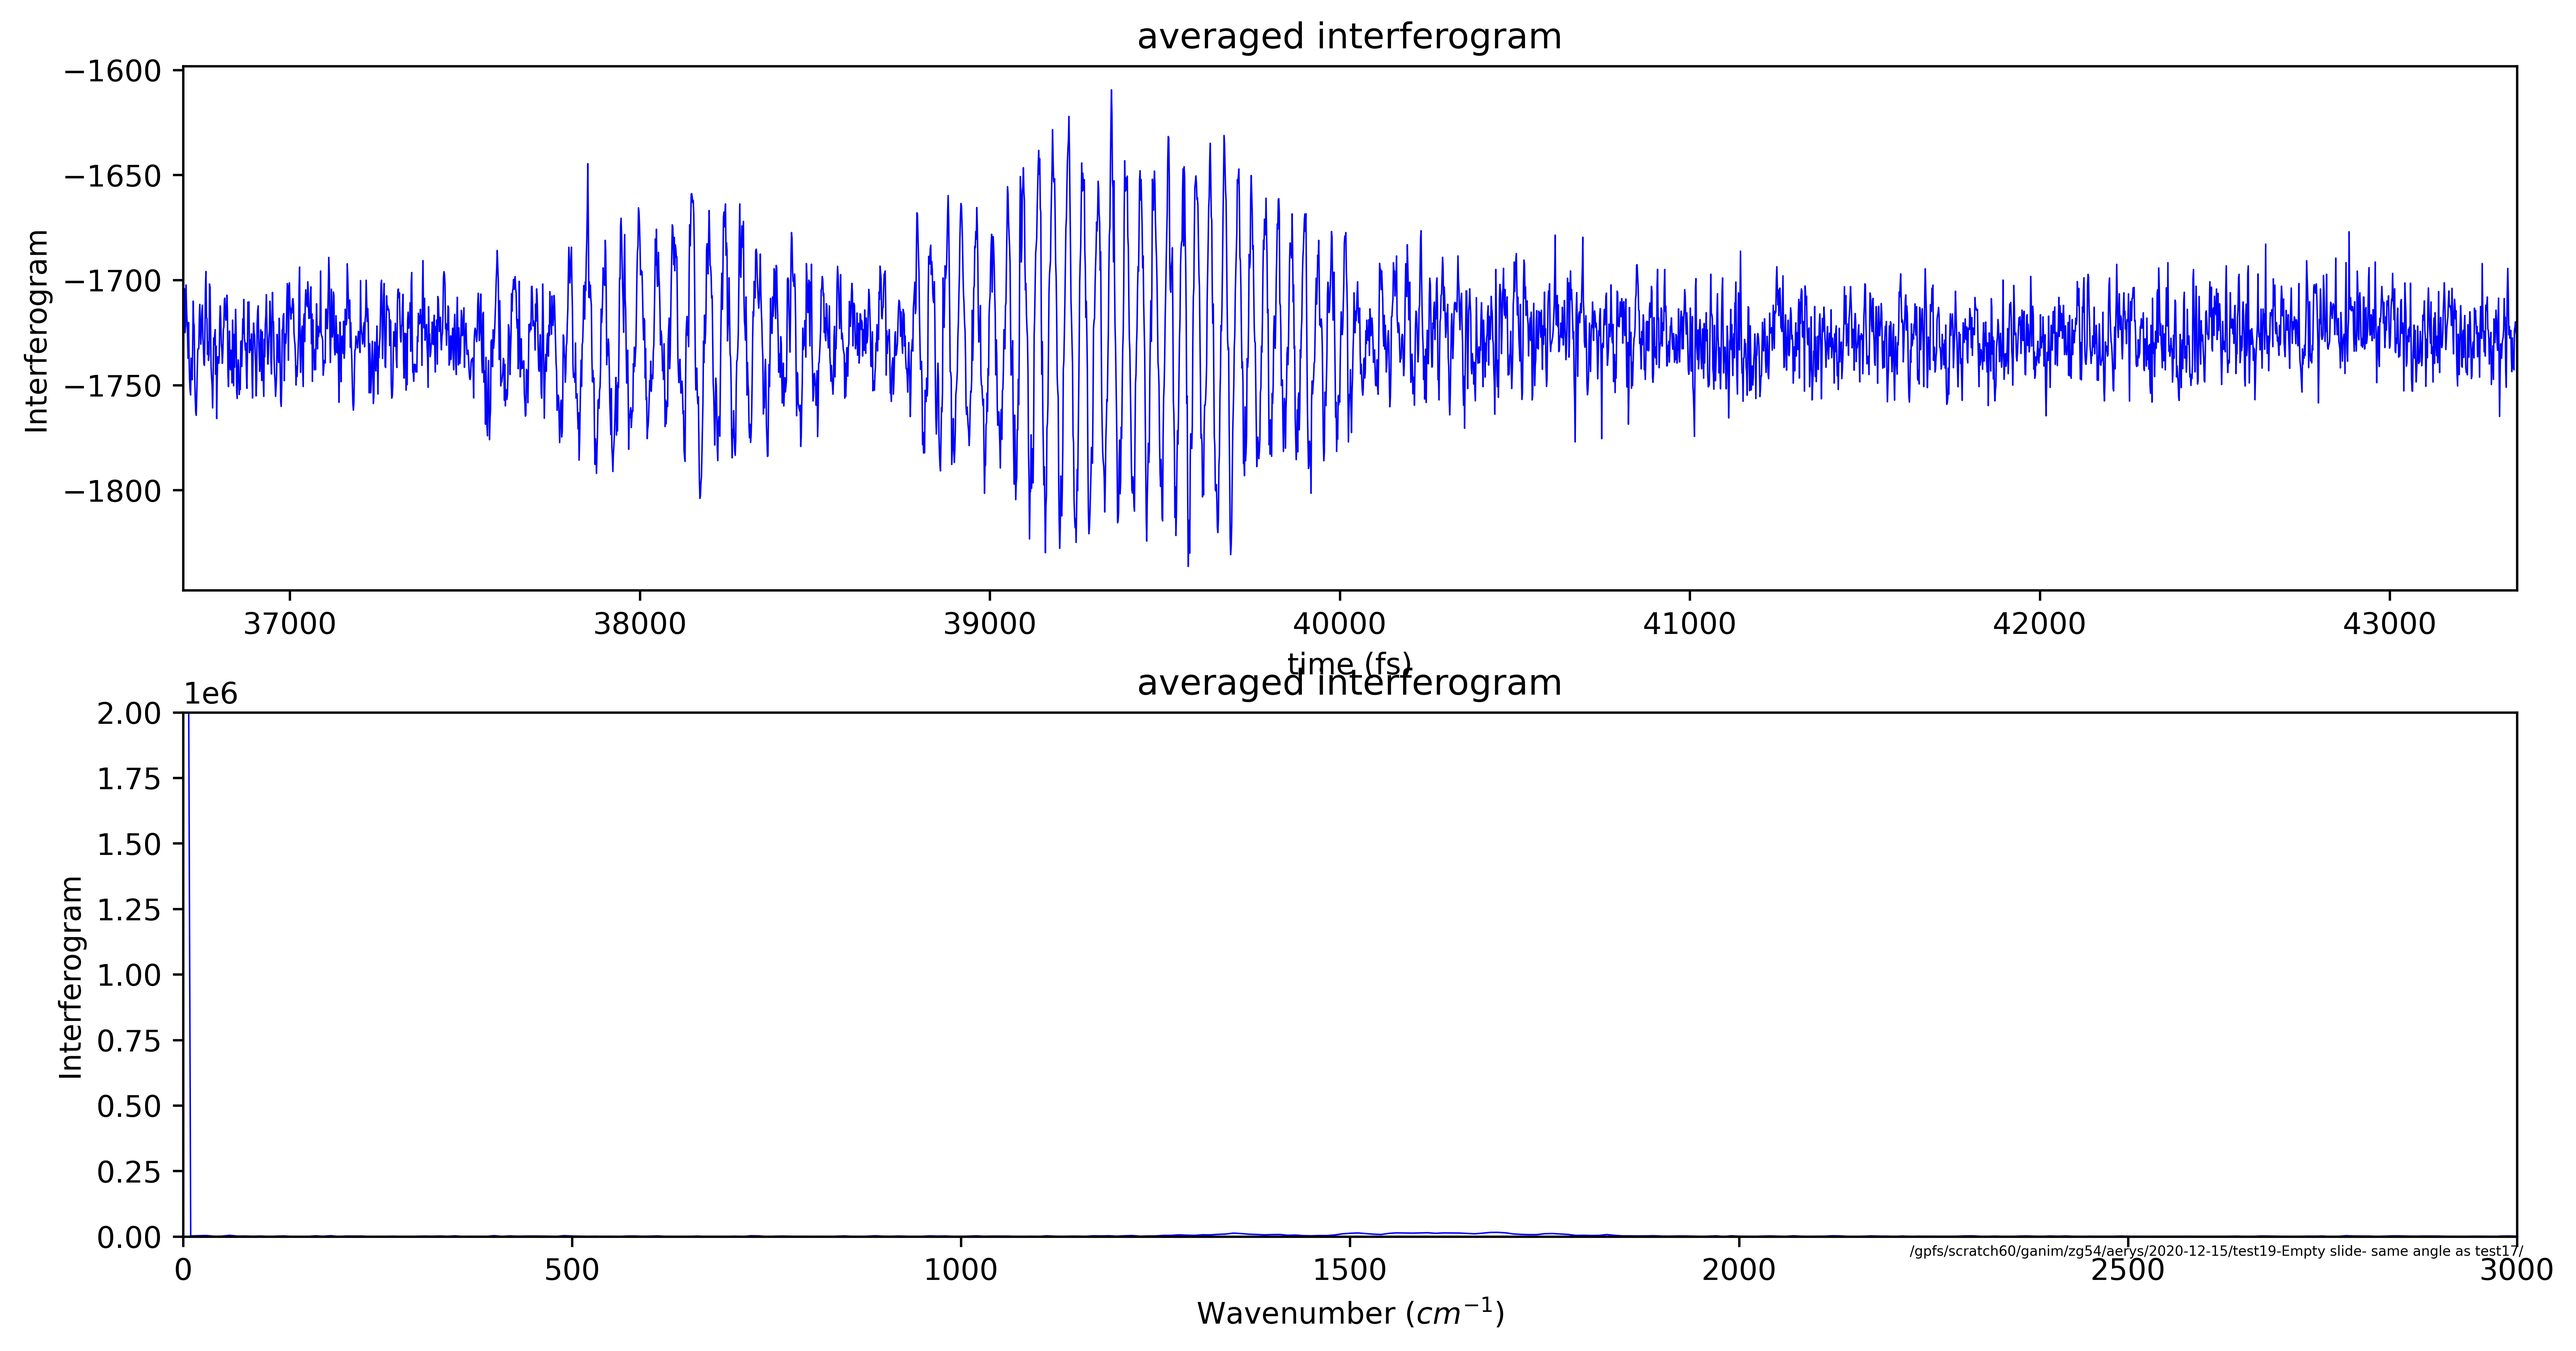
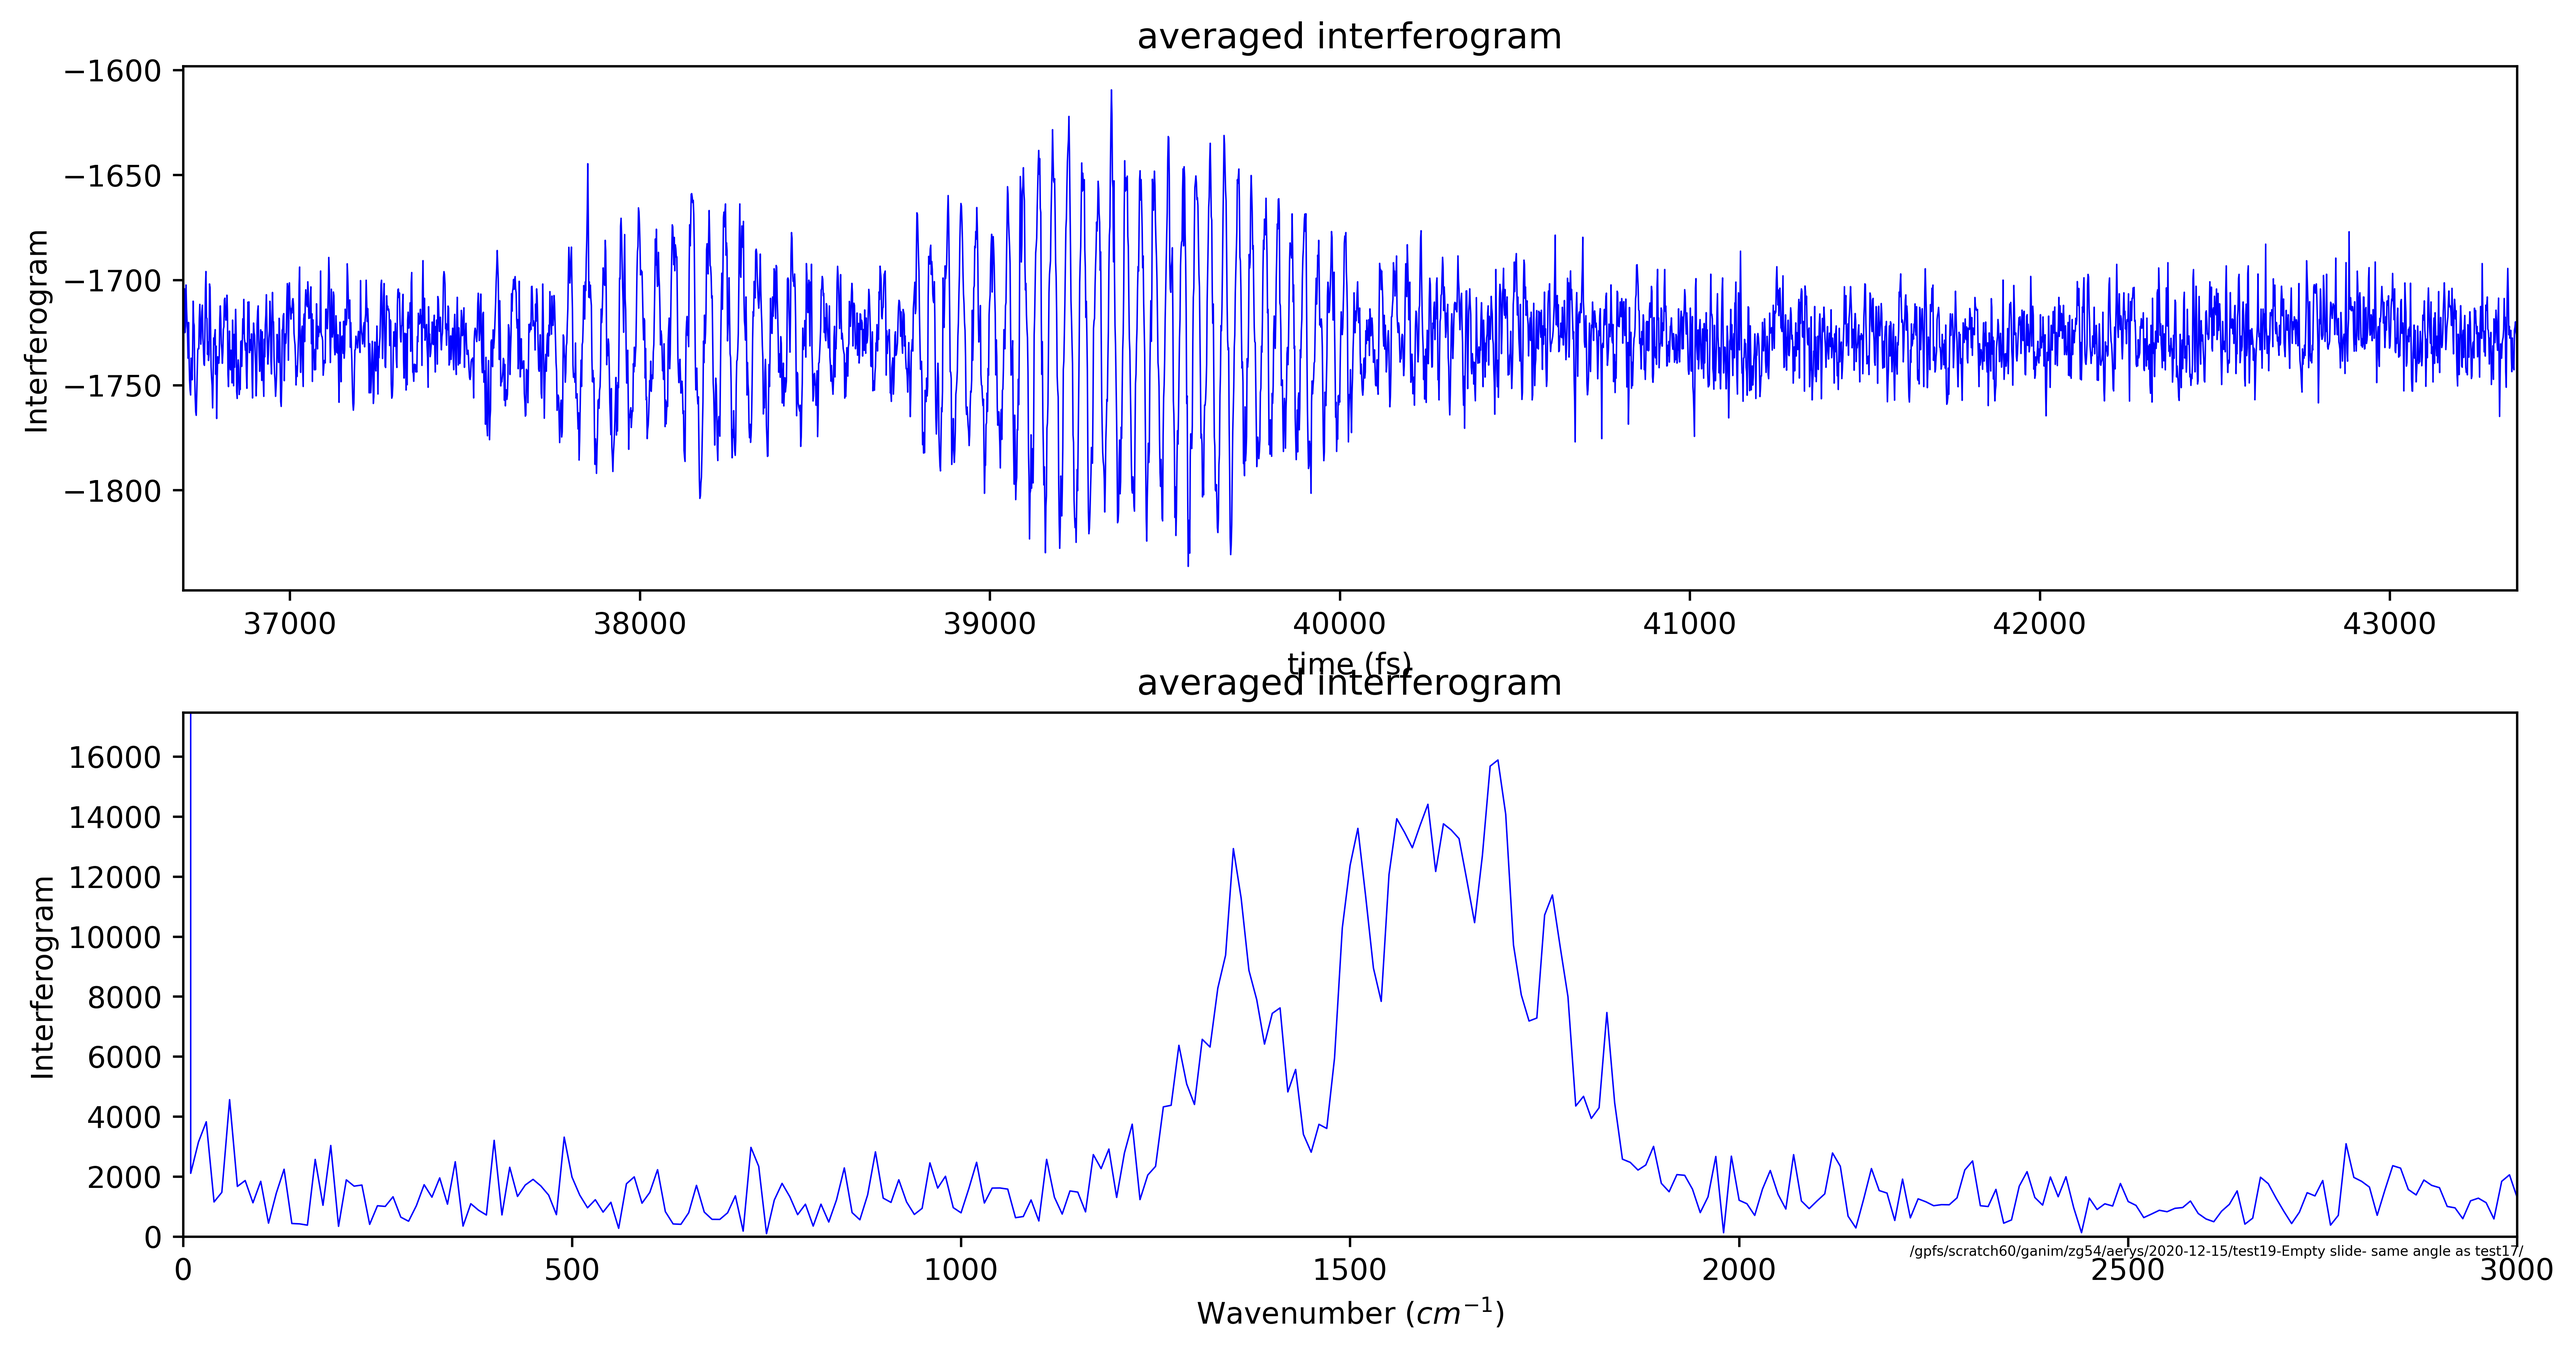
data run

diff --git a/interf_plot.py b/interf_plot.py
@@ -96,7 +96,7 @@ def main(args):
     ax.set(xlabel='Wavenumber ($cm^{-1}$)')
     ax.set(ylabel='Interferogram')
     plt.xlim(left=0, right=3000)
-    plt.ylim(bottom=0, top=2e6)
+    plt.ylim(bottom=0, top=1.1*np.amax(mct_fft[w_fft>1000]))
 
     fs = 8 #default fontsize
     plt.rc('font', size=fs)
